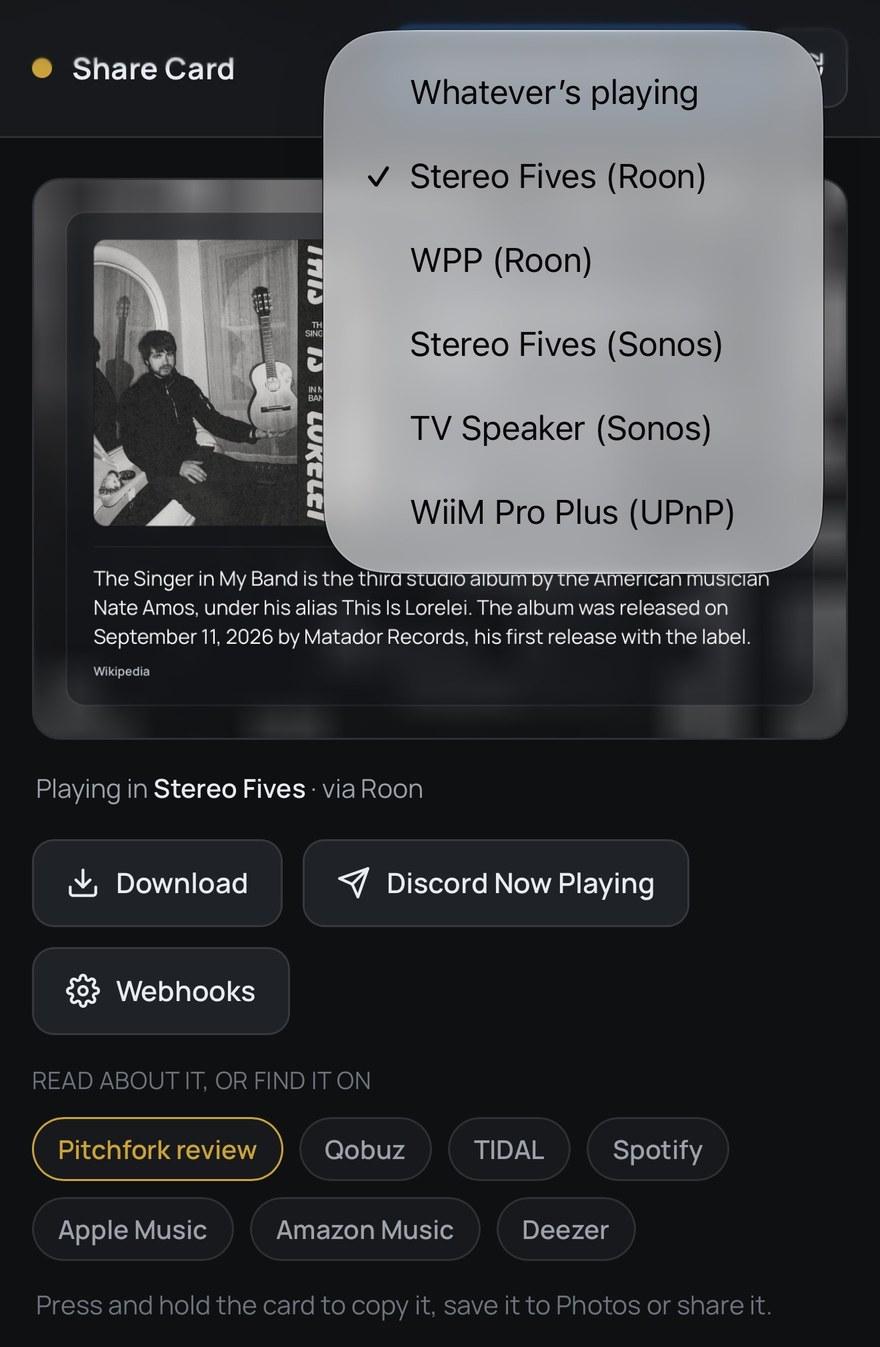
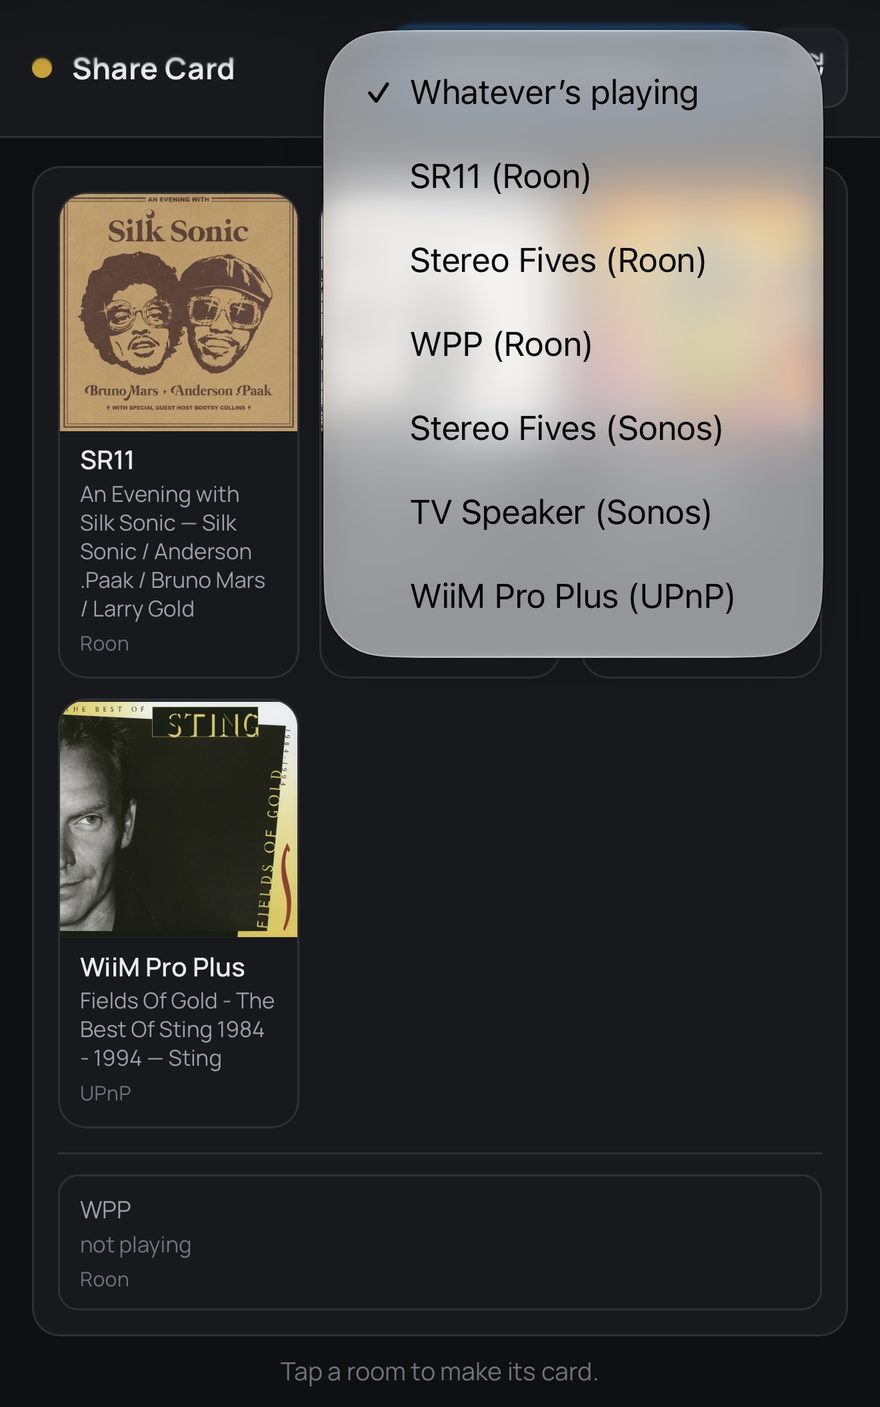
Publish the derived files every run, and stand down on a duplicate
TWO BUGS IN ONE STEP, both already seen in the field.

THE MANIFEST URL. The publish step exited the moment dist/$APK existed,
treating "the file is here" as "the manifest is right". Those came apart
as soon as a BRANCH published before main did: the branch wrote a
manifest whose url names the branch, the merge carried both the APK and
that manifest onto main, and main's own run then skipped - so main told
every device to fetch the APK from a branch url, which stops resolving
the day that branch is deleted. The app reads MAIN's manifest, so that is
not cosmetic. It happened twice: caught by hand inside the 0.38.0 merge
conflict, then shipped with 0.39.0 because the next PR merged cleanly and
nothing corrected it. Merging this fixes the live manifest, because main's
next run now rewrites a url that names the wrong ref.

THE DUPLICATE PUBLISH. Two pushes a minute apart build the same
versionName, write the same APK path, and the loser's rebase hits an
add/add conflict on a file identical but for its notes - reddening a
build whose only fault was being second. The push retries onto the moved
branch, and on a conflict reads the REMOTE manifest: if it already
carries this version at this ref, this run stands down. Anything else
still fails loudly rather than being forced through.

The APK is copied once per version as before; only the derived files -
latest.json, the README link, the page filename and badge - are
regenerated, and the commit is skipped when nothing changed.
[…]

diff --git a/docs/index.html b/docs/index.html
@@ -85,6 +85,26 @@
   }
   section > .wrap > p.lead { color: var(--muted); margin-bottom: 26px; max-width: 720px; }
 
+  /* ---------- screenshots ----------
+     The card is the point of the app, so it leads at full width; the three
+     phone screens follow in a row that wraps to one column on a narrow
+     screen. Shot on a real device rather than rendered, so what is on this
+     page is what somebody actually sees. */
+  .shots { display: grid; gap: 14px; }
+  .shots img {
+    display: block; width: 100%; height: auto;
+    border: 1px solid var(--line); border-radius: 12px; background: var(--bg-deep);
+  }
+  .shots .wide { max-width: 760px; margin: 0 auto; }
+  .shots .row {
+    display: grid; gap: 14px;
+    grid-template-columns: repeat(auto-fit, minmax(210px, 1fr));
+  }
+  .shots figure { margin: 0; }
+  .shots figcaption {
+    color: var(--muted); font-size: 13px; margin-top: 8px; text-align: center;
+  }
+
   /* ---------- feature grid ---------- */
   .grid {
     display: grid; gap: 14px;
@@ -157,6 +177,7 @@
     <a class="brand" href="#top">Music<span>D</span> Share Card</a>
     <a href="#download">Download</a>
     <a href="#install">Install</a>
+    <a href="#screens">Screens</a>
     <a href="#features">Features</a>
     <a class="gh" href="https://github.com/meltface-80/MusicD-Share-Card">GitHub&nbsp;&rarr;</a>
   </div>
@@ -212,6 +233,33 @@
             laptop and you get the same card. On iOS, <b>Share → Add to Home Screen</b> gives it
             an icon and opens it without browser chrome.</li>
       </ol>
+    </div>
+  </div>
+</section>
+
+<section id="screens">
+  <div class="wrap">
+    <h2>What it looks like</h2>
+    <p class="lead">Shot on the phone, not mocked up.</p>
+    <div class="shots">
+      <figure class="wide">
+        <img src="screenshots/card.jpg" alt="A share card: the cover, the album title, the artist, the release year and a few lines about the record from Wikipedia">
+        <figcaption>The card itself — this is the picture you send.</figcaption>
+      </figure>
+      <div class="row">
+        <figure>
+          <img src="screenshots/rooms.jpg" alt="Whatever's playing: a grid of album covers, one per room, with the silent rooms listed underneath">
+          <figcaption>More than one room on, so it asks rather than choosing.</figcaption>
+        </figure>
+        <figure>
+          <img src="screenshots/zones.jpg" alt="The room picker open, listing rooms from Roon, Sonos and UPnP together with the source named beside each">
+          <figcaption>Every room, whichever source found it.</figcaption>
+        </figure>
+        <figure>
+          <img src="screenshots/app.jpg" alt="One room's card, with buttons to download it or post it to Discord, links to read about it or find it on a streaming service, and three suggestions">
+          <figcaption>One screen: card, buttons, links, suggestions.</figcaption>
+        </figure>
+      </div>
     </div>
   </div>
 </section>

diff --git a/CLAUDE.md b/CLAUDE.md
@@ -802,6 +802,35 @@ was simply not there, however carefully the DIDL was parsed.
   `latest.json`'s `signed` flag is for: `Updater` refuses to download a build it
   knows cannot install, and says to uninstall first, rather than spending two
   megabytes on that dialog. See `docs/signing.md`.
+- **THE PUBLISH STEP REGENERATES THE DERIVED FILES EVERY RUN AND COPIES THE APK
+  ONCE.** It used to exit the moment `dist/$APK` existed, treating "the file is
+  here" as "the manifest is right". Those came apart as soon as a BRANCH
+  published before main did: the branch wrote a manifest whose `url` names the
+  branch, the merge carried both the APK and that manifest onto main, and
+  main's own run then skipped — leaving main telling every device to fetch the
+  APK from a branch url that stops resolving the day the branch is deleted. The
+  app reads MAIN's manifest, so that is not cosmetic. It happened twice: once
+  caught by hand inside a merge conflict, and once shipped because the next PR
+  merged cleanly and nothing corrected it.
+- **`notes` NAMES THE BUILD, NOT THE PUSH, and that is what keeps the churn
+  away.** Regenerating it from `GITHUB_SHA` every run made the manifest differ
+  on every push even when the APK had not moved — a commit per push, which is
+  the churn the old early-exit existed to prevent. When the APK is already
+  committed, the note that came with it is still the true one and is preserved.
+  The commit is skipped entirely when nothing actually changed.
+- **A DUPLICATE PUBLISH IS NOT A FAILURE.** Two pushes a minute apart build the
+  same `versionName`, write the same APK path, and the loser's rebase hits an
+  add/add conflict on a file identical but for its notes — reddening a build
+  whose only fault was being second. The push now retries onto the moved
+  branch, and on a conflict checks whether the REMOTE already carries this
+  version at this ref: if it does, it stands down; anything else still fails
+  loudly rather than being forced through.
+- **THE WORKFLOW WAS TESTED BY RUNNING IT, not by reading it.** The publish step
+  is extracted from the YAML and driven against throwaway git repos — a branch
+  publishing then merging to main, two concurrent runs at one version, a
+  docs-only push, and a real bump. That harness is what caught the `notes`
+  churn, which reading the diff had not. Any change here should be exercised
+  the same way; CI is not the place to discover it.
 - **The update manifest may not point the installer at another host.** The URL
   in it names a file this app downloads and hands to Android, so a manifest that
   can name anything can install anything. `Updater.parseManifest` requires https

diff --git a/README.md b/README.md
@@ -24,17 +24,20 @@ It works out what's playing by asking whoever actually knows:
 - **UPnP / DLNA** — any other renderer on the network
 
 Every room it can see is in one list, whichever source found it. Leave it on
-**Whatever's playing** and it picks the room that is actually playing — and when
-two sources see the same room, the one that knows the most about the record
-wins. If more than one room is playing it shows them as a grid of covers
-instead of choosing for you, with the silent rooms listed underneath; tap one
-for its card.
+**Whatever's playing** and one room playing goes straight to its card. More than
+one and it shows them as a grid of covers instead of choosing for you — the
+silent rooms listed underneath, tap either for its card. When two sources see
+the same room they collapse to one tile, and the one that knows the most about
+the record supplies it.
 
 Pick a room by name and you get that room, silence included. Each zone is
 independent, so a room that is not playing says so rather than showing you
 what is on somewhere else.
 
-<img src="docs/screenshots/zones.jpg" width="360" alt="The room picker, listing rooms from Roon, Sonos and UPnP together">
+<p>
+  <img src="docs/screenshots/rooms.jpg" width="330" alt="Whatever's playing: a grid of album covers, one per room, with the rooms that are silent listed underneath">
+  <img src="docs/screenshots/zones.jpg" width="330" alt="The room picker open, listing rooms from Roon, Sonos and UPnP together with the source named beside each">
+</p>
 
 ## Install
 
